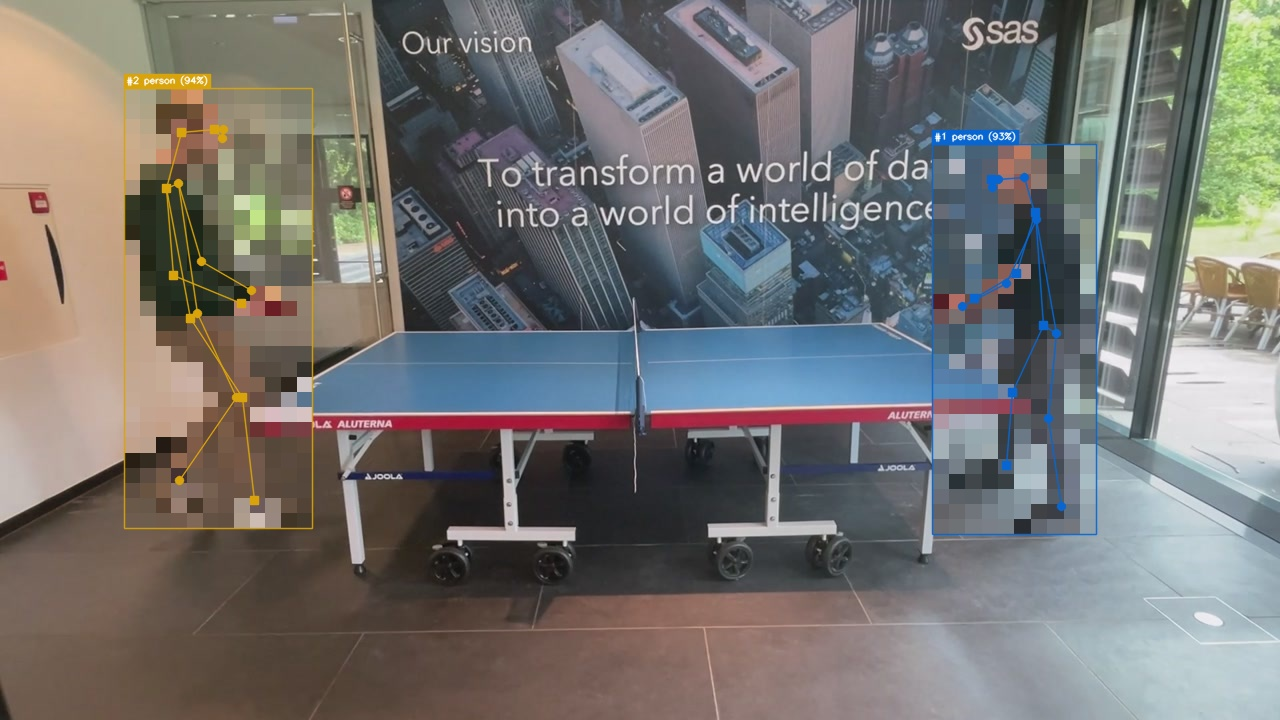
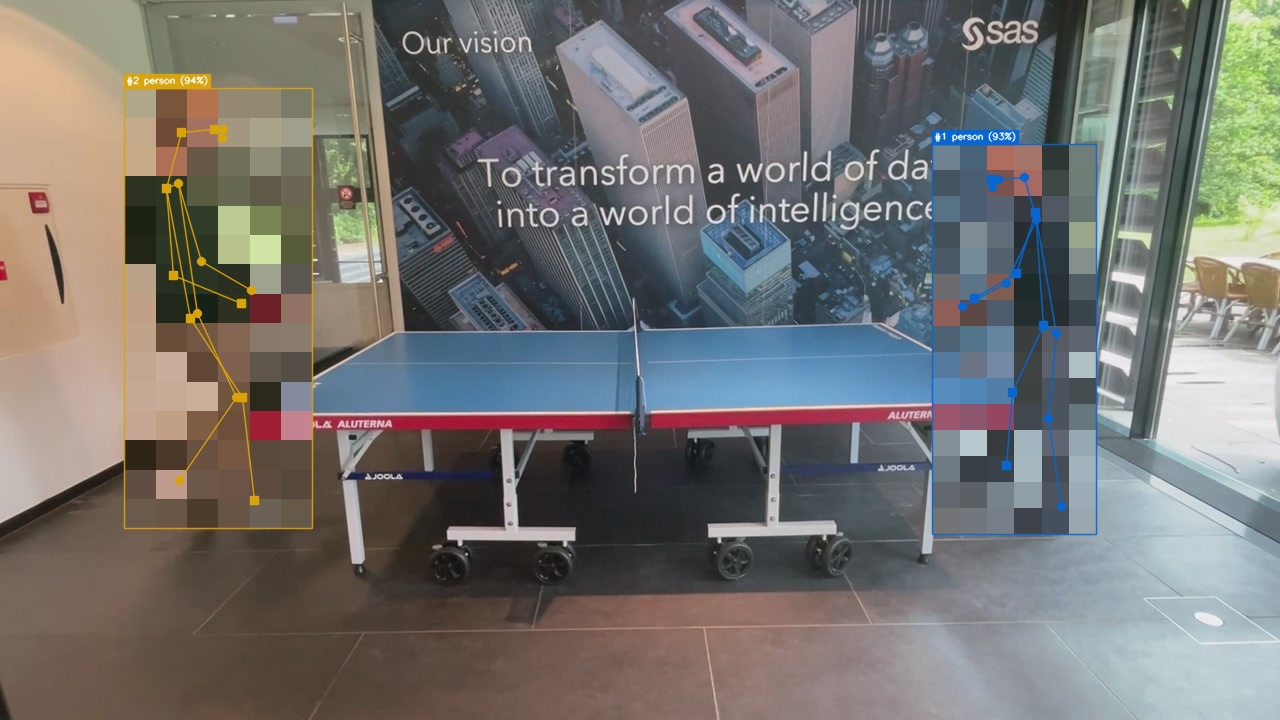
Adaptive pixelate

Changed region(s): [[0.7188, 0.1833, 0.875, 0.7639], [0.0938, 0.1222, 0.25, 0.7333]]

diff --git a/Computer Vision Annotation/annotation.py b/Computer Vision Annotation/annotation.py
@@ -52,8 +52,12 @@ GAUSSIAN_BLUR_KERNEL_SIZE = 75
 # For a simple blur, use the same as a Gaussian blur
 BLUR_KERNEL_SIZE = 75
 
-# Pixelation strength
-PIXELATION_STRENGTH = 15
+# Pixelation strength: the resolution inside a bounding box is reduced at least by this factor
+PIXELATION_STRENGTH = 5
+
+# Maximum number of mosaic blocks (pixels of the downscaled image) per bounding box.
+# Larger boxes get larger blocks, keeping the bounding box aspect ratio.
+PIXELATION_MAX_BLOCKS = 100
 
 
 def init(settings):
@@ -61,7 +65,7 @@ def init(settings):
 
     Args:
         settings (dict): A dictionary containing configuration options.
-            - `pseudonymization` (str): Pseudonymization setting. Must be one of `none`, `black_bbox`, `gaussian_blur`, `blur`, or `pixelate`.
+            - `pseudonymization` (str): Pseudonymization setting. Must be one of `none`, `black_bbox`, `gaussian_blur`, `blur`, `pixelate`.
             - `input_image_encoding` (str): Specifies the input image encoding format. Must be in `SUPPORTED_IMAGE_ENCODING`.
             - `output_image_encoding` (str): Specifies the output image encoding format. Must be in `SUPPORTED_IMAGE_ENCODING`.
             - `object_label_separator` (str): Separator used for object labels. Cannot be an empty string.
@@ -256,23 +260,45 @@ def pseudonymize_black_bbox(data, opencv_image):
 
 
 def pseudonymize_pixelate(data, opencv_image):
-    """Pseudonymizes the given OpenCV image by pixelating regions inside bounding boxes."""
+    """Pseudonymizes the given OpenCV image by pixelating regions inside bounding boxes.
+
+    The resolution is reduced at least by `PIXELATION_STRENGTH`, and further if
+    needed to stay within `PIXELATION_MAX_BLOCKS` blocks per bounding box.
+    """
     if data["x"] is None:
         return opencv_image
 
+    image_height, image_width = opencv_image.shape[:2]
     for i in range(len(data["x"])):
-        x = int(data["x"][i])
-        y = int(data["y"][i])
-        w = int(data["w"][i])
-        h = int(data["h"][i])
+        x1 = max(0, int(data["x"][i]))
+        y1 = max(0, int(data["y"][i]))
+        x2 = min(image_width, int(data["x"][i] + data["w"][i]))
+        y2 = min(image_height, int(data["y"][i] + data["h"][i]))
 
-        roi = opencv_image[y : y + h, x : x + w]
+        if x2 <= x1 or y2 <= y1:
+            continue
+
+        w = x2 - x1
+        h = y2 - y1
+        roi = opencv_image[y1:y2, x1:x2]
 
         small_w = max(1, w // PIXELATION_STRENGTH)
         small_h = max(1, h // PIXELATION_STRENGTH)
+
+        # Shrink the grid further when the box is large, keeping its aspect ratio.
+        if small_w * small_h > PIXELATION_MAX_BLOCKS:
+            scale = (PIXELATION_MAX_BLOCKS / (small_w * small_h)) ** 0.5
+            small_w = max(1, int(small_w * scale))
+            small_h = max(1, int(small_h * scale))
+            while small_w * small_h > PIXELATION_MAX_BLOCKS:
+                if small_w >= small_h:
+                    small_w -= 1
+                else:
+                    small_h -= 1
+
         small = cv2.resize(roi, (small_w, small_h), interpolation=cv2.INTER_LINEAR)
         pixelated = cv2.resize(small, (w, h), interpolation=cv2.INTER_NEAREST)
-        opencv_image[y : y + h, x : x + w] = pixelated
+        opencv_image[y1:y2, x1:x2] = pixelated
     return opencv_image
 
 

diff --git a/Computer Vision Annotation/test.py b/Computer Vision Annotation/test.py
@@ -26,6 +26,13 @@ annotation.SETTINGS = {
 }
 espconfig = annotation._espconfig_  # pylint: disable=protected-access
 
+PSEUDONYMIZATION_FUNCS = [
+    ("black_bbox", annotation.pseudonymize_black_bbox),
+    ("gaussian_blur", annotation.pseudonymize_gaussian_blur),
+    ("blur", annotation.pseudonymize_blur),
+    ("pixelate", annotation.pseudonymize_pixelate),
+]
+
 
 class TestEspConfigValidation(unittest.TestCase):
     """Test class to validate ESP configuration consistency."""
@@ -265,13 +272,7 @@ class TestArrayRectObjectTracker(TestAnnotationCustomWindow):
             data["image"]
         )  # base64 string of the DataFrame to an OpenCV frame
 
-        pseudonymization_funcs = [
-            ("black_bbox", annotation.pseudonymize_black_bbox),
-            ("gaussian_blur", annotation.pseudonymize_gaussian_blur),
-            ("blur", annotation.pseudonymize_blur),
-            ("pixelate", annotation.pseudonymize_pixelate),
-        ]
-        for option, func in pseudonymization_funcs:
+        for option, func in PSEUDONYMIZATION_FUNCS:
             with self.subTest(pseudonymization=option):
                 print(f"> Subtest: pseudonymization={option}")
                 start = time.perf_counter()
@@ -392,6 +393,27 @@ class TestArrayRectPostprocessing(TestAnnotationCustomWindow):
         """Tests the annotation process without keypoints (just object detections)."""
         df = self.df.drop(["object_track_kpts_x"], axis=1)
         self.process_and_validate_frame(df)
+
+
+class TestSinglePicture(unittest.TestCase):
+    """Unit test class for pseudonymizing a single image file."""
+
+    def test_single_picture_pseudonymization(self):
+        """Tests every pseudonymization option, using one box covering the whole image."""
+        for option, func in PSEUDONYMIZATION_FUNCS:
+            with self.subTest(pseudonymization=option):
+                print(f"> Subtest: pseudonymization={option}")
+                # Re-read the image because the functions modify it in place
+                img = cv2.imread("test_files/person.jpg")
+                if img is None:
+                    self.skipTest("test_files/person.jpg not available")
+
+                height, width = img.shape[:2]
+                data = {"x": [0], "y": [0], "w": [width], "h": [height]}
+
+                result = func(data, img)
+                self.assertEqual(result.shape, (height, width, 3))
+                cv2.imwrite(f"test_output/test_single_picture_{option}.jpg", result)
 
 
 # def show_frame(frame):
